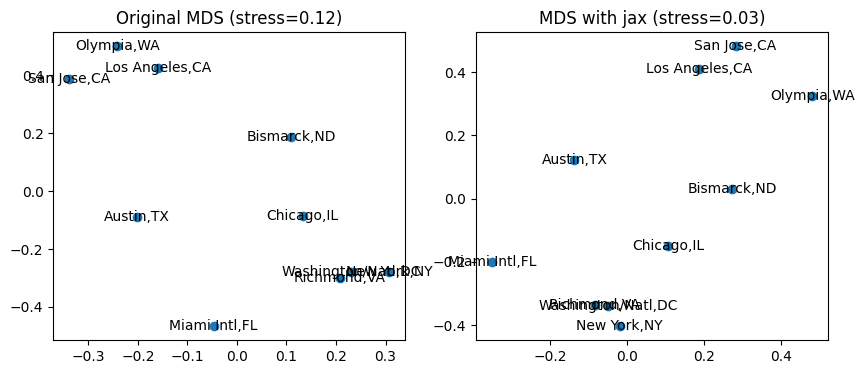
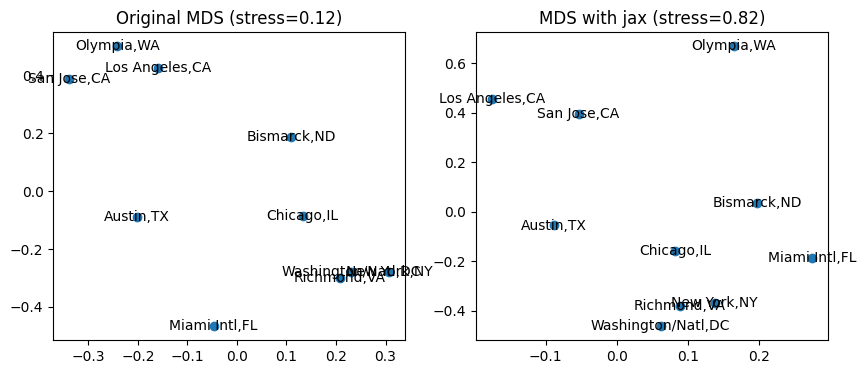
Working version of MAP with fixed points for cities_us_toy

diff --git a/pmds/config.py b/pmds/config.py
@@ -155,26 +155,83 @@ pre_config = {
         ),
     },
     "MAP": {
+        # NOTE: DO NOT use batch_size for MAP
         "cities_us_toy": dict(
             dataset_name="cities_us_toy",
             n_samples=None,  # 10
             n_components=2,
             batch_size=0,
             epochs=40,
-            learning_rate=2e-2,
+            learning_rate=1e-1,
             random_state=42,
             std=False,
             pca=None,
             fixed_points=[
-                # (6, 0.1, 0.1),
-                # (0, -0.15, 0.1),  # New York
-                # (6, 0.15, 0.1),  # Olympia
+                (0, -0.2, -0.2),  # New York
+                (6, 0.2, 0.2),  # Olympia
                 # (5, 0.0, 0.0),  # Austin
             ],
             ### params for MDS-jax
             epochs_mds=10,
             learning_rate_mds=10,
             batch_size_mds=20,
-        )
+        ),
+        "iris": dict(
+            dataset_name="iris",
+            n_samples=None,  # 150
+            n_components=2,
+            batch_size=0,
+            epochs=20,
+            learning_rate=1e-5,
+            random_state=42,
+            std=True,  # standardize
+            pca=None,
+            fixed_points=[],
+            epochs_mds=10,
+            learning_rate_mds=10,
+            batch_size_mds=2000,
+        ),
+        "iris_mini": dict(
+            dataset_name="iris",
+            n_samples=40,
+            n_components=2,
+            batch_size=0,
+            epochs=100,
+            learning_rate=1e-3,
+            random_state=42,
+            std=True,  # standardize
+            pca=None,
+            epochs_mds=20,
+            learning_rate_mds=5,
+            batch_size_mds=100,
+        ),
+        "digits": dict(
+            dataset_name="digits",
+            n_samples=150,  # 1797
+            n_components=2,
+            batch_size=0,
+            epochs=25,
+            learning_rate=160,
+            random_state=42,
+            std=False,  # digits already in [0, 1]
+            pca=None,
+            epochs_mds=20,
+            learning_rate_mds=140,
+            batch_size_mds=4000,
+        ),
+        "digits_mini": dict(
+            dataset_name="digits",
+            n_samples=50,  # 1797
+            n_components=2,
+            batch_size=0,
+            epochs=60,
+            learning_rate=1e-3,
+            random_state=2020,
+            std=False,  # digits already in [0, 1]
+            pca=None,
+            epochs_mds=20,
+            learning_rate_mds=22,
+            batch_size_mds=500,
+        ),
     },
 }

diff --git a/run_pmds.py b/run_pmds.py
@@ -19,12 +19,12 @@ def run_pdms(D, N, args, labels=None):
 
     # PMDS use squared Euclidean distances
     # NOTE now PMDS use Euclidean distance (not squared)
-    sq_dists_with_indices = list(zip(D, all_pairs))
-    n_pairs = len(sq_dists_with_indices)
+    dists_with_indices = list(zip(D, all_pairs))
+    n_pairs = len(dists_with_indices)
 
     # create non-complete data: sample from pairwise distances
     percent = 1.0
-    p_dists = random.sample(sq_dists_with_indices, k=int(percent * n_pairs))
+    p_dists = random.sample(dists_with_indices, k=int(percent * n_pairs))
     print(f"[DEBUG] n_pairs={n_pairs}, incomplete data {len(p_dists)}")
 
     # note: Original metric MDS (and its stress) use Euclidean distances,
@@ -98,6 +98,7 @@ if __name__ == "__main__":
 
     argm("--dataset_name", "-d")
     argm("--method_name", "-m", default="MLE", help="How to optimize the model")
+    argm("--normalize_dists", action="store_true", help="Normalize input distances")
     argm("--use_pre_config", "-c", action="store_true", help="Use params pre-config")
     argm("--random_state", "-s", default=2020, type=int, help="Random seed")
     argm("--pca", type=float, help="Run PCA on raw data")
@@ -111,6 +112,7 @@ if __name__ == "__main__":
     args = parser.parse_args()
     dataset_name = args.dataset_name
     method_name = args.method_name
+    normalize_dists = args.normalize_dists
 
     if args.use_pre_config:
         # load predefined config and update the config with new input arguments
@@ -130,6 +132,7 @@ if __name__ == "__main__":
         std=args.std,
         pca=args.pca,
         n_samples=args.n_samples,
+        normalize_dists=normalize_dists,
     )
 
     mlflow.set_experiment(f"pmds_{method_name}")

diff --git a/pmds/pmds_MAP.py b/pmds/pmds_MAP.py
@@ -46,11 +46,11 @@ def loss_one_pair(mu_i, mu_j, s_i, s_j, D, n_components):
     s_ij = s_i + s_j + EPSILON
     d_ij = jnp.linalg.norm(mu_i - mu_j) + EPSILON
 
-    factor = D / s_ij
     log_llh = (
-        jnp.log(factor)
+        jnp.log(D)
+        - jnp.log(s_ij)
         - 0.5 * (D * D + d_ij * d_ij) / s_ij
-        + jnp.log(i0e(d_ij * factor))
+        + jnp.log(i0e(d_ij * D / s_ij))
     )
     return -log_llh
 
@@ -188,7 +188,9 @@ def pmds_MAP(
         loss_log_mu, grads_log_mu = loss_and_grads_log_mu(mu)
 
         # accumulate log likelihood and log prior
-        loss = jnp.sum(loss_lllh) - jnp.sum(loss_log_mu)
+        loss = jnp.sum(loss_lllh) + jnp.sum(loss_log_mu)
+
+        # print("[DEBUG]: NAN here?", jnp.mean(loss_lllh), jnp.mean(loss_log_mu))
 
         # update gradient for the corresponding related indices
         grads_mu = jnp.concatenate((lr * grads_lllh[0], lr * grads_lllh[1]), axis=0)

diff --git a/pmds/dataset.py b/pmds/dataset.py
@@ -11,11 +11,21 @@ from scipy.spatial.distance import pdist, squareform
 DISTANCE_DATASET = ["cities_us_toy", "cities_us", "qpcr"]
 
 
-def load_dataset(dataset_name, data_dir="./data", std=False, pca=None, n_samples=None):
+def load_dataset(
+    dataset_name,
+    data_dir="./data",
+    std=False,
+    pca=None,
+    n_samples=None,
+    normalize_dists=False,
+):
     if dataset_name in DISTANCE_DATASET:
-        return load_distance_dataset(dataset_name, data_dir)
+        dists, labels, N = load_distance_dataset(dataset_name, data_dir)
     else:
-        return load_traditional_dataset(dataset_name, std, pca, n_samples)
+        dists, labels, N = load_traditional_dataset(dataset_name, std, pca, n_samples)
+    if normalize_dists:
+        dists /= dists.max()
+    return dists, labels, N
 
 
 def load_traditional_dataset(dataset_name, std=False, pca=None, n_samples=None):
